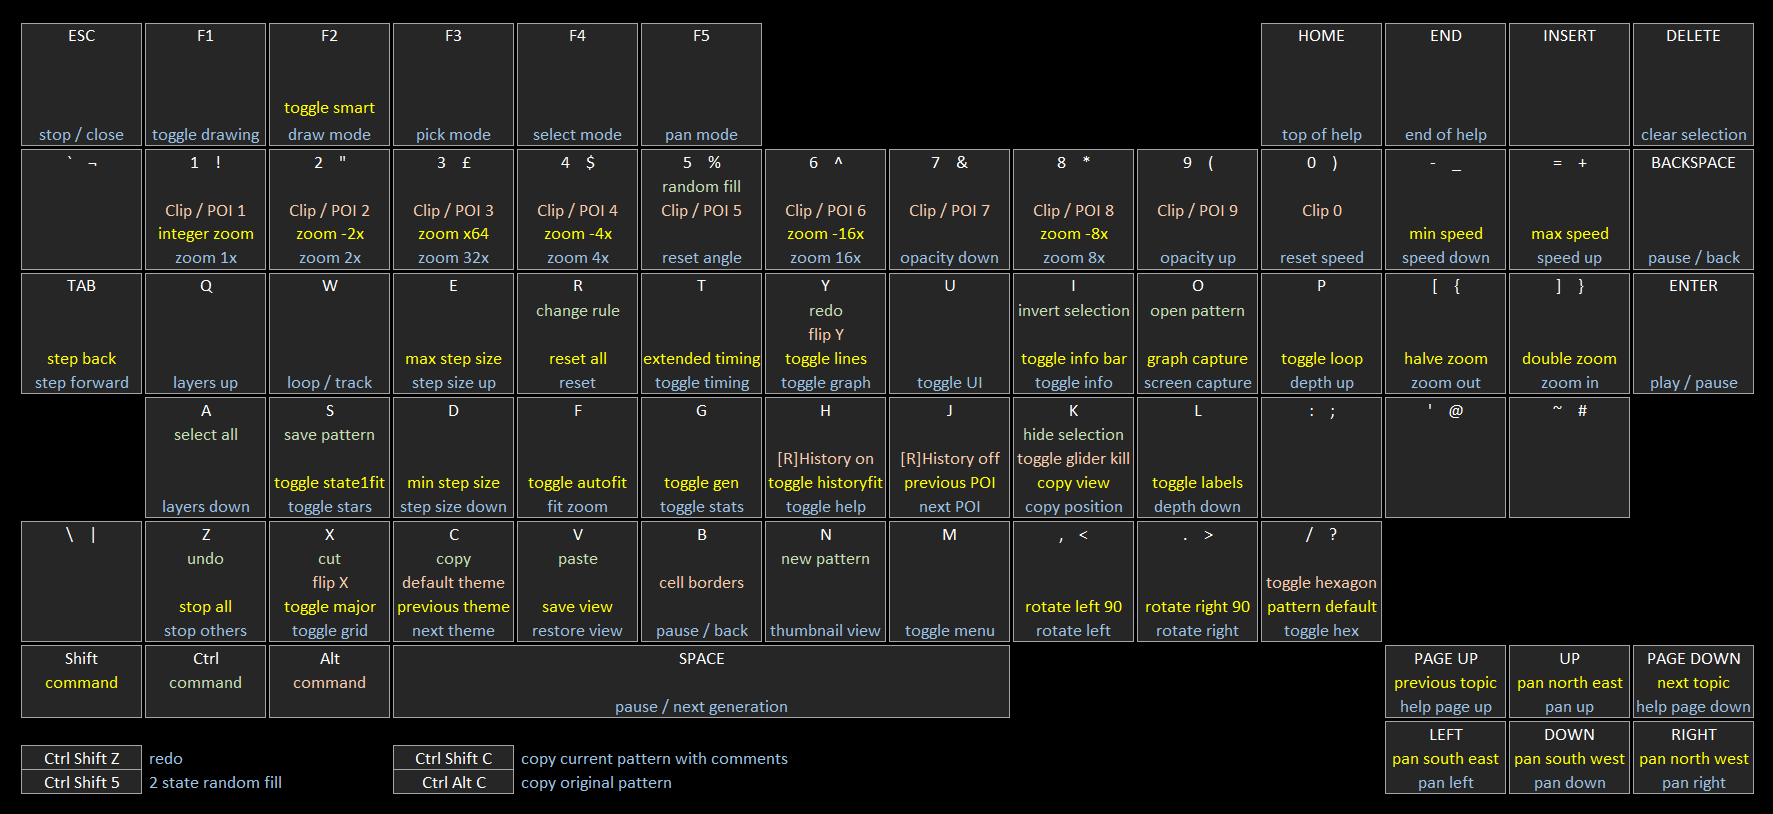
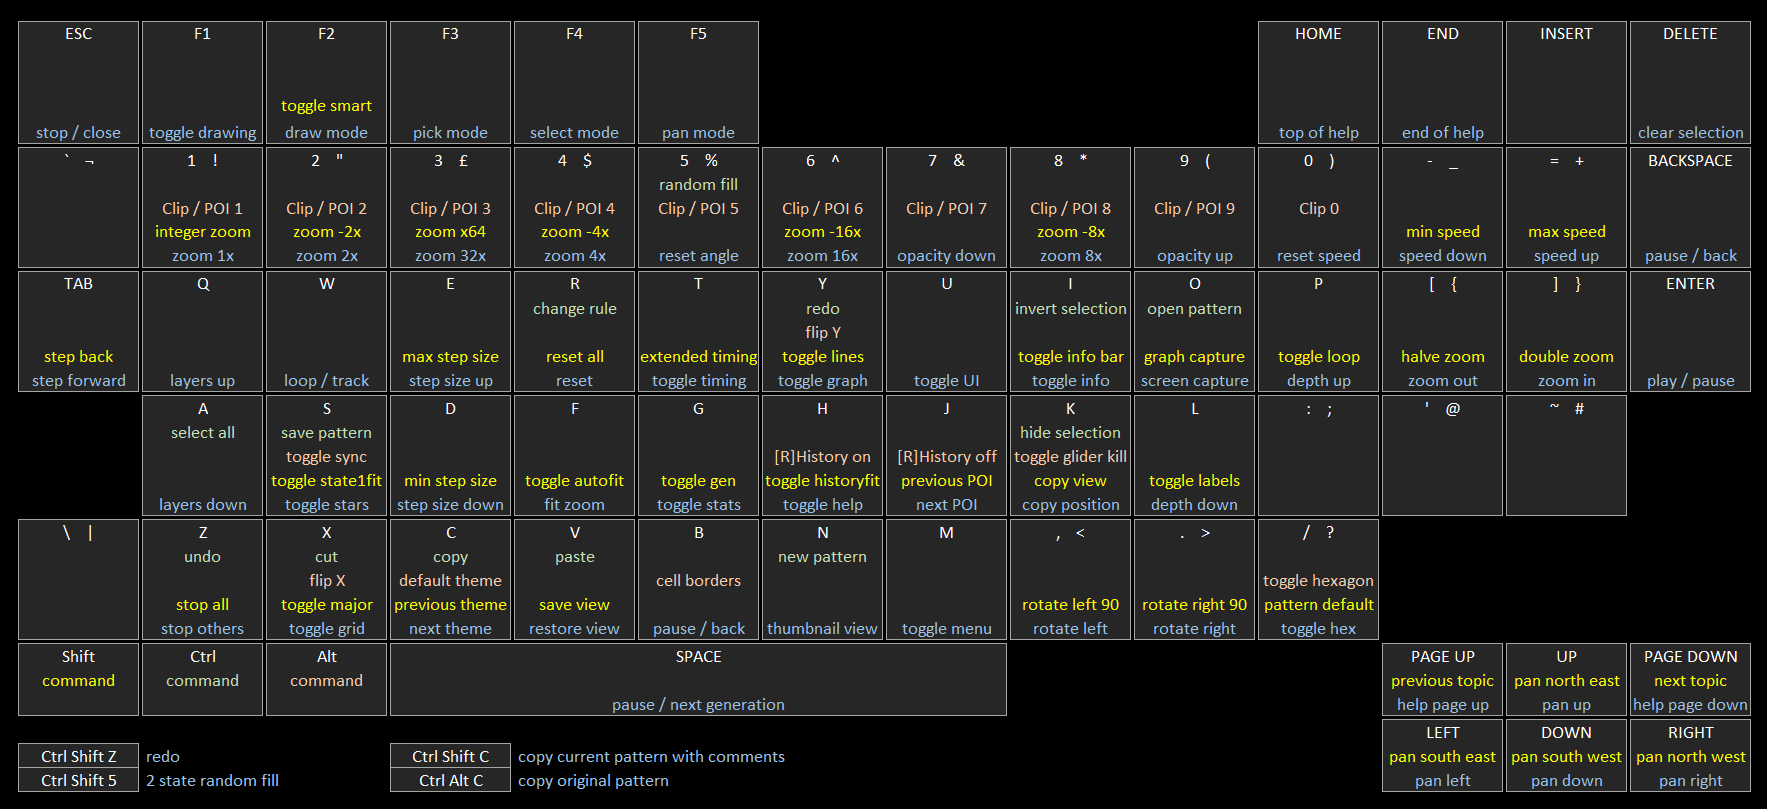
added hotkey for toggle sync

diff --git a/js/help.js b/js/help.js
@@ -745,6 +745,7 @@
 		y = this.renderHelpLine(view, "Ctrl+Alt C", "copy current pattern with comments", ctx, x, y, height, helpLine);
 		y = this.renderHelpLine(view, "K", "copy camera position", ctx, x, y, height, helpLine);
 		y = this.renderHelpLine(view, "Shift K", "copy camera position and view", ctx, x, y, height, helpLine);
+		y = this.renderHelpLine(view, "Alt S", "toggle sync cut and copy with external clipboard", ctx, x, y, height, helpLine);
 		y = this.renderHelpLine(view, "", "", ctx, x, y, height, helpLine);
 
 		// edit controls

diff --git a/js/keys.js b/js/keys.js
@@ -193,6 +193,12 @@
 						// change rule
 						me.changeRule(me);
 						break;
+					// s for toggle sync
+					case 83:
+						// toggle external clipboard sync
+						me.copySyncToggle.current = me.viewCopySyncList([!me.copySyncExternal], true, me);
+						me.menuManager.notification.notify("Sync Clipboard " + (me.copySyncExternal ? "On" : "Off"), 15, 40, 15, true);
+						break;
 					// x for flip X
 					case 88:
 						// flip selection horizontally

diff --git a/js/lifeview.js b/js/lifeview.js
@@ -10491,7 +10491,7 @@
 		this.libraryToggle.current = [false];
 
 		// default copy sync
-		this.copySyncToggle.current = this.viewCopySyncList(this.copySyncExternal, true, this);
+		this.copySyncToggle.current = this.viewCopySyncList([this.copySyncExternal], true, this);
 
 		// start in pan mode
 		this.modeList.current = this.viewModeList(ViewConstants.modePan, true, this);
